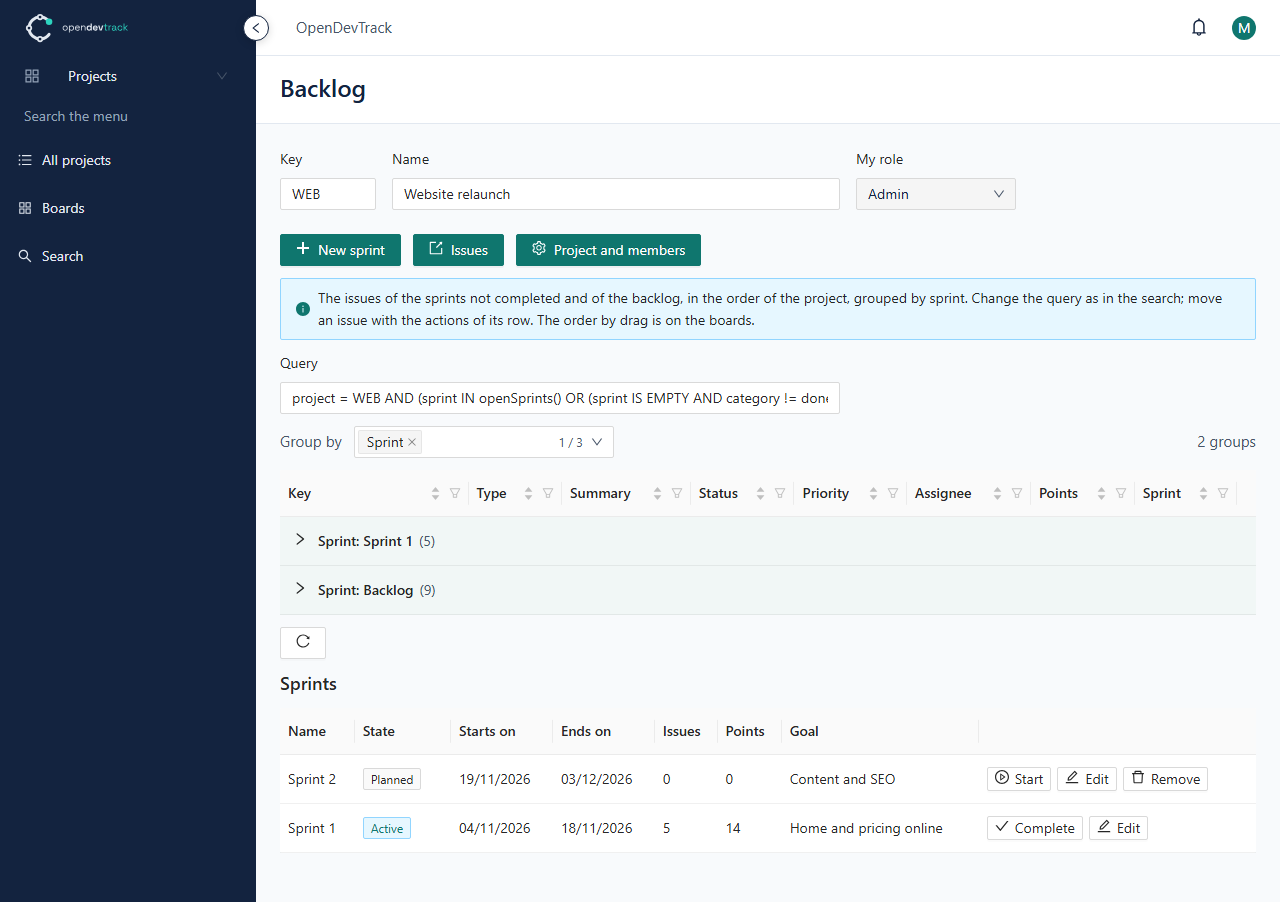
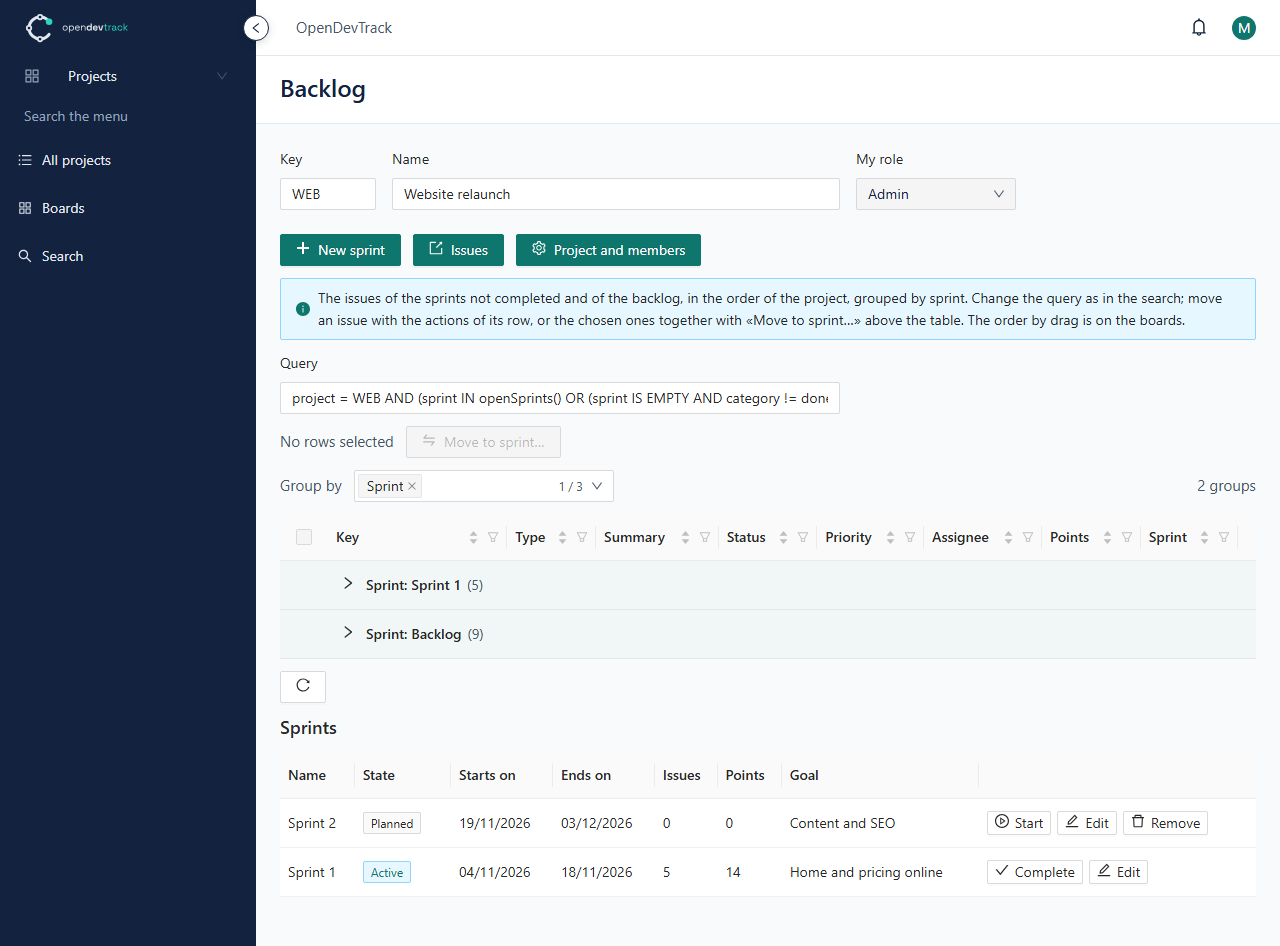
feat(agile): move the chosen issues of the backlog to a sprint together
Quadrava 0.19.0 gives the serverDataTable a row selection and bulk actions
(Q28), so decision 7 of ADR-26 is built: the backlog table has a checkbox per
row and, above it, «Move to sprint…», which puts all the chosen issues into a
sprint not completed of the project or back to the backlog. The action is on
only for rows of the project of the backlog that the user may plan, and the
selection is emptied after the move.

POST /api/projects/{key}/backlog/plan takes up to 200 issue keys and a column,
needs odt.sprint.manage, and moves them in one transaction: an issue of
another project or an unknown sprint refuses the whole request. AgileApiTest
covers it; OpenAPI, the guide and its image, ui/README.md and ADR-26 are
updated.

Found along the way: a selected row has the default background of the table,
a grey green on which the links are hard to read. Asked to Quadrava as Q30
(docs/README.md, #36).

Closes #34

diff --git a/backend/src/main/java/com/logicwarez/opendevtrack/agile/BacklogController.java b/backend/src/main/java/com/logicwarez/opendevtrack/agile/BacklogController.java
@@ -6,6 +6,7 @@ package com.logicwarez.opendevtrack.agile;
 
 import com.logicwarez.opendevtrack.agile.AgileApi.ColumnRow;
 import com.logicwarez.opendevtrack.agile.AgileApi.MoveRequest;
+import com.logicwarez.opendevtrack.agile.AgileApi.PlanManyRequest;
 import com.logicwarez.opendevtrack.agile.AgileApi.PlanRequest;
 import com.logicwarez.opendevtrack.agile.AgileApi.PlanView;
 import com.logicwarez.opendevtrack.agile.Scopes.Scope;
@@ -45,6 +46,8 @@ class BacklogController {
 
     static final String BACKLOG = "backlog";
     static final Set<String> ENDS = Set.of("top", "bottom");
+    /** The most issues planned at once: a page of the backlog table is 50. */
+    static final int MANY = 200;
 
     private final Scopes scopes;
     private final Plans plans;
@@ -126,6 +129,50 @@ class BacklogController {
             plans.place(plan, neighbour(request.beforeId(), scope.get()), neighbour(request.afterId(), scope.get()));
         }
         return ResponseEntity.ok(Map.of("column", column));
+    }
+
+    /** The rows chosen in the backlog, into one sprint or back to the backlog: all of them, or none. */
+    @ApiDoc(value = "Moves issues of the project to a sprint not completed or to the backlog",
+            answer = Map.class, project = "odt.sprint.manage")
+    @PostMapping("/api/projects/{key}/backlog/plan")
+    @Transactional
+    ResponseEntity<?> planMany(@PathVariable String key, @RequestBody PlanManyRequest request) {
+        Optional<Scope> scope = member(key);
+        if (scope.isEmpty()) {
+            return notVisible(key);
+        }
+        if (!scope.get().can(Scopes.SPRINTS)) {
+            return Problems.forbidden("Only a developer or an admin of the project plans the sprints");
+        }
+        List<String> keys = request.issues() == null ? List.of() : request.issues().stream().distinct().toList();
+        if (keys.isEmpty() || keys.size() > MANY) {
+            return Problems.badRequest("From 1 to " + MANY + " issues are planned at once");
+        }
+        Map<String, SprintEntity> open = plans.open(scope.get().projectId()).stream()
+                .collect(Collectors.toMap(s -> s.id().toString(), Function.identity()));
+        String column = request.column() == null ? "" : request.column();
+        if (!column.equals(BACKLOG) && !open.containsKey(column)) {
+            return Problems.badRequest("No sprint not completed with this id in the project");
+        }
+        List<IssueRef> chosen = new ArrayList<>();
+        for (String issueKey : keys) {
+            Optional<IssueRef> issue = issue(issueKey, scope.get());
+            if (issue.isEmpty()) {
+                return Problems.badRequest("The issue " + issueKey + " is not in the project " + key);
+            }
+            chosen.add(issue.get());
+        }
+        SprintEntity to = open.get(column);
+        Instant now = Instant.now();
+        int moved = 0;
+        for (IssueRef issue : chosen) {
+            PlanEntity plan = plans.plan(issue.id(), scope.get().projectId());
+            if (!Objects.equals(plan.sprintId(), to == null ? null : to.id())) {
+                plans.sprint(plan, to, now);
+                moved++;
+            }
+        }
+        return ResponseEntity.ok(Map.of("column", column, "moved", moved));
     }
 
     /** The plan of an issue: its story points and its sprint not completed. */

diff --git a/backend/src/test/java/com/logicwarez/opendevtrack/agile/AgileApiTest.java b/backend/src/test/java/com/logicwarez/opendevtrack/agile/AgileApiTest.java
@@ -242,6 +242,42 @@ class AgileApiTest {
     }
 
     @Test
+    void theChosenIssuesGoToASprintTogether() throws Exception {
+        String body = mvc.perform(as(post("/api/projects/ODT/sprints"), luisa).content("{}"))
+                .andExpect(status().isCreated()).andReturn().getResponse().getContentAsString();
+        String sprint = JsonPath.read(body, "$.id");
+        mvc.perform(as(post("/api/projects"), mario).content("{\"key\":\"WEB\",\"name\":\"Web\"}"))
+                .andExpect(status().isCreated());
+        mvc.perform(as(post("/api/projects/WEB/issues"), mario).content("{\"summary\":\"Elsewhere\"}"))
+                .andExpect(status().isCreated());
+        String plan = "/api/projects/ODT/backlog/plan";
+        mvc.perform(as(post(plan), luisa).content("{\"issues\":[\"ODT-2\",\"ODT-4\",\"ODT-2\"],\"column\":\"" + sprint + "\"}"))
+                .andExpect(status().isOk())
+                .andExpect(jsonPath("$.moved").value(2));
+        String rows = backlog(paola);
+        assertThat(JsonPath.<List<String>>read(rows, "$.items[?(@.sprint == 'ODT Sprint 1')].key"))
+                .containsExactly("ODT-2", "ODT-4");
+        // All or none: an issue of another project, an unknown sprint, a viewer, nothing chosen.
+        mvc.perform(as(post(plan), luisa).content("{\"issues\":[\"ODT-1\",\"WEB-1\"],\"column\":\"" + sprint + "\"}"))
+                .andExpect(status().isBadRequest());
+        mvc.perform(as(post(plan), luisa).content("{\"issues\":[\"ODT-1\"],\"column\":\"nowhere\"}"))
+                .andExpect(status().isBadRequest());
+        mvc.perform(as(post(plan), paola).content("{\"issues\":[\"ODT-1\"],\"column\":\"backlog\"}"))
+                .andExpect(status().isForbidden());
+        mvc.perform(as(post(plan), luisa).content("{\"issues\":[],\"column\":\"backlog\"}"))
+                .andExpect(status().isBadRequest());
+        assertThat(JsonPath.<List<String>>read(backlog(paola), "$.items[?(@.sprint == 'ODT Sprint 1')].key"))
+                .containsExactly("ODT-2", "ODT-4");
+        // Back to the backlog: only those in a sprint count as moved.
+        mvc.perform(as(post(plan), luisa).content("{\"issues\":[\"ODT-1\",\"ODT-2\",\"ODT-4\"],\"column\":\"backlog\"}"))
+                .andExpect(status().isOk())
+                .andExpect(jsonPath("$.moved").value(2));
+        assertThat(JsonPath.<List<String>>read(backlog(paola), "$.items[*].sprint")).containsOnly("Backlog");
+        mvc.perform(as(post("/api/projects/ODT/backlog/plan"), ugo).content("{\"issues\":[\"ODT-1\"],\"column\":\"backlog\"}"))
+                .andExpect(status().isNotFound());
+    }
+
+    @Test
     void theAdminsManageTheBoards() throws Exception {
         String scrum = """
                 {"name":"Team","kind":"scrum","lane":"assignee","columns":"Open: todo\\nDoing: in_progress | 2\\nDone: done"}""";

diff --git a/backend/src/main/java/com/logicwarez/opendevtrack/agile/AgileApi.java b/backend/src/main/java/com/logicwarez/opendevtrack/agile/AgileApi.java
@@ -50,6 +50,13 @@ final class AgileApi {
     record MoveRequest(String column, String beforeId, String afterId, String to) {
     }
 
+    /**
+     * Issues of the project chosen in the backlog, all into one sprint not completed or back to the backlog
+     * ({@code column}, as in {@link MoveRequest}): the bulk action of ADR-26, decision 7.
+     */
+    record PlanManyRequest(List<String> issues, String column) {
+    }
+
     record SprintRow(String id, String name, String goal, String state, LocalDate startsOn, LocalDate endsOn,
                      Instant startedAt, Instant completedAt, int issues, int points, long version,
                      @JsonProperty("_perm") Map<String, Boolean> perm) {

diff --git a/docs/README.md b/docs/README.md
@@ -64,8 +64,9 @@ Found while writing the ADRs; each is built in its own repository, optional for 
 | Q24 | Quadrava | A `download` step: it runs a GET data source through the runtime's own fetch, so the recent login of Q23, the session expiry and `onError` behave as for `call`, and saves the body as a file named by `Content-Disposition`; today a download is a link the browser follows, which lands on the bare Problem of a 401, so the export of another user's data asks no recent login (ADR-24 point 4, issue #25; asked 19 November 2026; released in Quadrava 0.18.0, `download` with `fileName`, and adopted: the export of a user in `admin-users`, marked for the recent login) | F5 |
 | Q26 | Quadrava | A field of a `flow` form can take the whole line: today a field without `width` stops at 560px (`form.flow > nz-form-item.line lc-field-control`), so the description of an issue takes half of a wide screen. For example `width: "full"`, or the limit as a theme variable (asked 24 November 2026; released in Quadrava 0.19.0, `width: "full"`, and adopted: the form of `issue-detail` is a flow again, its description `full`, issue #32) | F5 |
 | Q27 | Quadrava | An optional `icon` on every button of a screen: the actions of forms, the row and bulk actions of tables, the `button` component, from the icon set of the runtime, before the label. Today only the items of the navigation have one, and the maintainer wants an icon on every button (asked 24 November 2026; released in Quadrava 0.19.0, `icon` on buttons and actions, and adopted: every button and action has one, ui/README.md, issue #33) | F5 |
-| Q28 | Quadrava | Row selection and bulk actions on the `serverDataTable`, as on the `table`: the backlog of ADR-26 moves the selected issues to a sprint at once. Until then, one issue at a time (asked 24 November 2026) | F5 |
+| Q28 | Quadrava | Row selection and bulk actions on the `serverDataTable`, as on the `table`: the backlog of ADR-26 moves the selected issues to a sprint at once. Until then, one issue at a time (asked 24 November 2026; released in Quadrava 0.19.0, `selection` and `bulkActions`, and adopted: «Move to sprint…» on the chosen rows of the backlog, issue #34) | F5 |
 | Q29 | Quadrava | The group rows of a `serverDataTable` have a background of their own: today they take `--lc-sider-active-bg`, the active item of the sider, so with a dark sider (the theme of OpenDevTrack) they are dark blue with dark text (asked 24 November 2026; released in Quadrava 0.19.0, `--lc-group-row-bg`, a light tint of the primary, and adopted with the pin) | F5 |
+| Q30 | Quadrava | A background of their own for the selected rows of `table` and `serverDataTable`, derived by the theme as `--lc-group-row-bg` is (Q29): today a selected row has the default of the table, rgb(168, 181, 178) with the ODT theme, on which the links and the text are hard to read (issue #36; asked 24 November 2026; nothing to do here until then) | F5 |
 | A1 | authz-library | Extension point for permissions that depend on a resource (ADR-07; until then `_perm` on rows and forms; released in authz-library 2.2.0, `PermissionContributor`, and adopted: `project/ProjectPermissions` decides `/authz/check` for a project or an issue; `_perm` stays for the screens) | F2 |
 | A2 | authz-library | A configurable schema for the RBAC tables (today they go into `public`, next to the `odt_*` schemas of the modules; released in authz-library 2.2.0, `authz.rbac.schema`, and adopted: schema `authz`) | F1 |
 | A3 | authz-library | Problem titles and details in English (today Italian, for example «Troppi tentativi di accesso»); released in authz-library 2.1.0 and adopted (2.2.0) | F5 |

diff --git a/ui/README.md b/ui/README.md
@@ -114,8 +114,9 @@ the back end (`columnsFrom`), one component whose lanes follow `data.board.lane`
 (`laneField` and `lanes` as expressions, Q12). `backlog` (params `key`) is a search (ADR-26): the query field
 of `search`, filled with the sprints not completed and the backlog of the project in their order, and a
 `serverDataTable` on `search/search` grouped by `sprint`, with the row actions «Move to sprint…» (a `lookup` on
-`boards/planColumns`, the sprints of the row's project) and «To the top», «To the bottom» (`boards/backlogPlan`);
-the sprints in a table below (new, start, complete, edit, remove). `board-list` (Projects › Boards) lists
+`boards/planColumns`, the sprints of the row's project) and «To the top», «To the bottom» (`boards/backlogPlan`),
+and a selection (`state.chosen`, by key) with the bulk action «Move to sprint…» (`boards/projectColumns`,
+`boards/backlogPlanMany`, Q28), on for rows of the project only; the sprints in a table below (new, start, complete, edit, remove). `board-list` (Projects › Boards) lists
 the boards of the projects of the user; `project-detail` manages those of a project and `issue-detail` sets the story
 points. A card opens its issue (`onOpen`) and its badges show the values in the language of the user (`valueKey`):
 both from Q12, Quadrava 0.11.1. A board may have an ODQL filter (ADR-16), set in the dialogs of `project-detail`

diff --git a/HANDOFF.md b/HANDOFF.md
@@ -164,8 +164,9 @@ texts in English), A4 (bearer access for tools), A5 (read-only list of the tenan
    no medium or high alert, and the reset runs from root's crontab at 03:30 UTC. Its alerts come from an external
    monitor (healthchecks.io) that mails the maintainer: `deploy/demo/watch.sh` every 5 minutes and the result of the
    reset (deploy/demo/README.md, «Alerts»). Next: the rest of the checklist of rc.1 (step 5).
-   ADR-26, accepted and built on 24 November 2026: the backlog is a search table grouped by sprint (Q28 for bulk
-   moves, Q29 for the colour of the group rows).
+   ADR-26, accepted and built on 24 November 2026: the backlog is a search table grouped by sprint. Quadrava 0.19.0
+   (Q26 to Q29) is adopted: the issue form in flow, an icon on every button, the bulk «Move to sprint…» of the
+   backlog, light group rows.
 2. Deployment: `deploy/compose` (ADR-25 step 1) runs the back end, the runtime, PostgreSQL and Redis, with Caddy and
    Keycloak as optional profiles. `odt.sh first-admin` creates the first tenant and global administrator (one-off
    SQL, as authz-library documents), and `odt.sh publish-ui` publishes `ui/` to `production` with the service account

diff --git a/docs/adr-26-backlog-as-search-table.md b/docs/adr-26-backlog-as-search-table.md
@@ -20,7 +20,7 @@ What exists today:
 - `POST /api/search` answers rows without the sprint: `sprint` is neither a column (`Searches.COLUMNS`) nor a group
   (`GROUPS`), and the rows carry no permission.
 - The `serverDataTable` of Quadrava 0.18.0 has a source, sortable, filterable and groupable columns, `groupBy`,
-  paging and row actions; it has no row selection and no bulk actions (the plain `table` has both).
+  paging and row actions; it has no row selection and no bulk actions (the plain `table` has both; 0.19.0 adds them, Q28).
 - A move on a board already writes the one rank of the project (ADR-15, decision 1): the boards and the backlog never
   disagree on the order.
 
@@ -55,7 +55,8 @@ What exists today:
    issues, unchanged.
 7. **Moving many issues at once** needs selection and bulk actions on the `serverDataTable`: requested from Quadrava as
    Q28. Until it is released, issues are planned one by one; with Q28, a bulk «Move to sprint…» on the selected
-   rows.
+   rows. (Built with Quadrava 0.19.0: `POST /api/projects/{key}/backlog/plan` moves up to 200 issues of the project
+   in one transaction, all or none.)
 
 ## Alternatives considered
 

diff --git a/docs/guide/boards.md b/docs/guide/boards.md
@@ -64,6 +64,10 @@ Each row has three actions, for developers and admins:
 - **Move to sprint…**: pick a sprint not completed of the project, or «Backlog» to take the issue out of its sprint.
 - **To the top** and **To the bottom**: the issue goes first or last in the order of the project.
 
+To plan several issues at once, tick their rows (also on other pages and in other groups) and use **Move to sprint…**
+above the table: they all go into the sprint you pick, or back to the backlog. It works on the issues of the project of
+the backlog; with rows of other projects chosen, it stays off.
+
 To put an issue between two others, drag its card on a board: a board and the backlog share the one order of the
 project.
 
